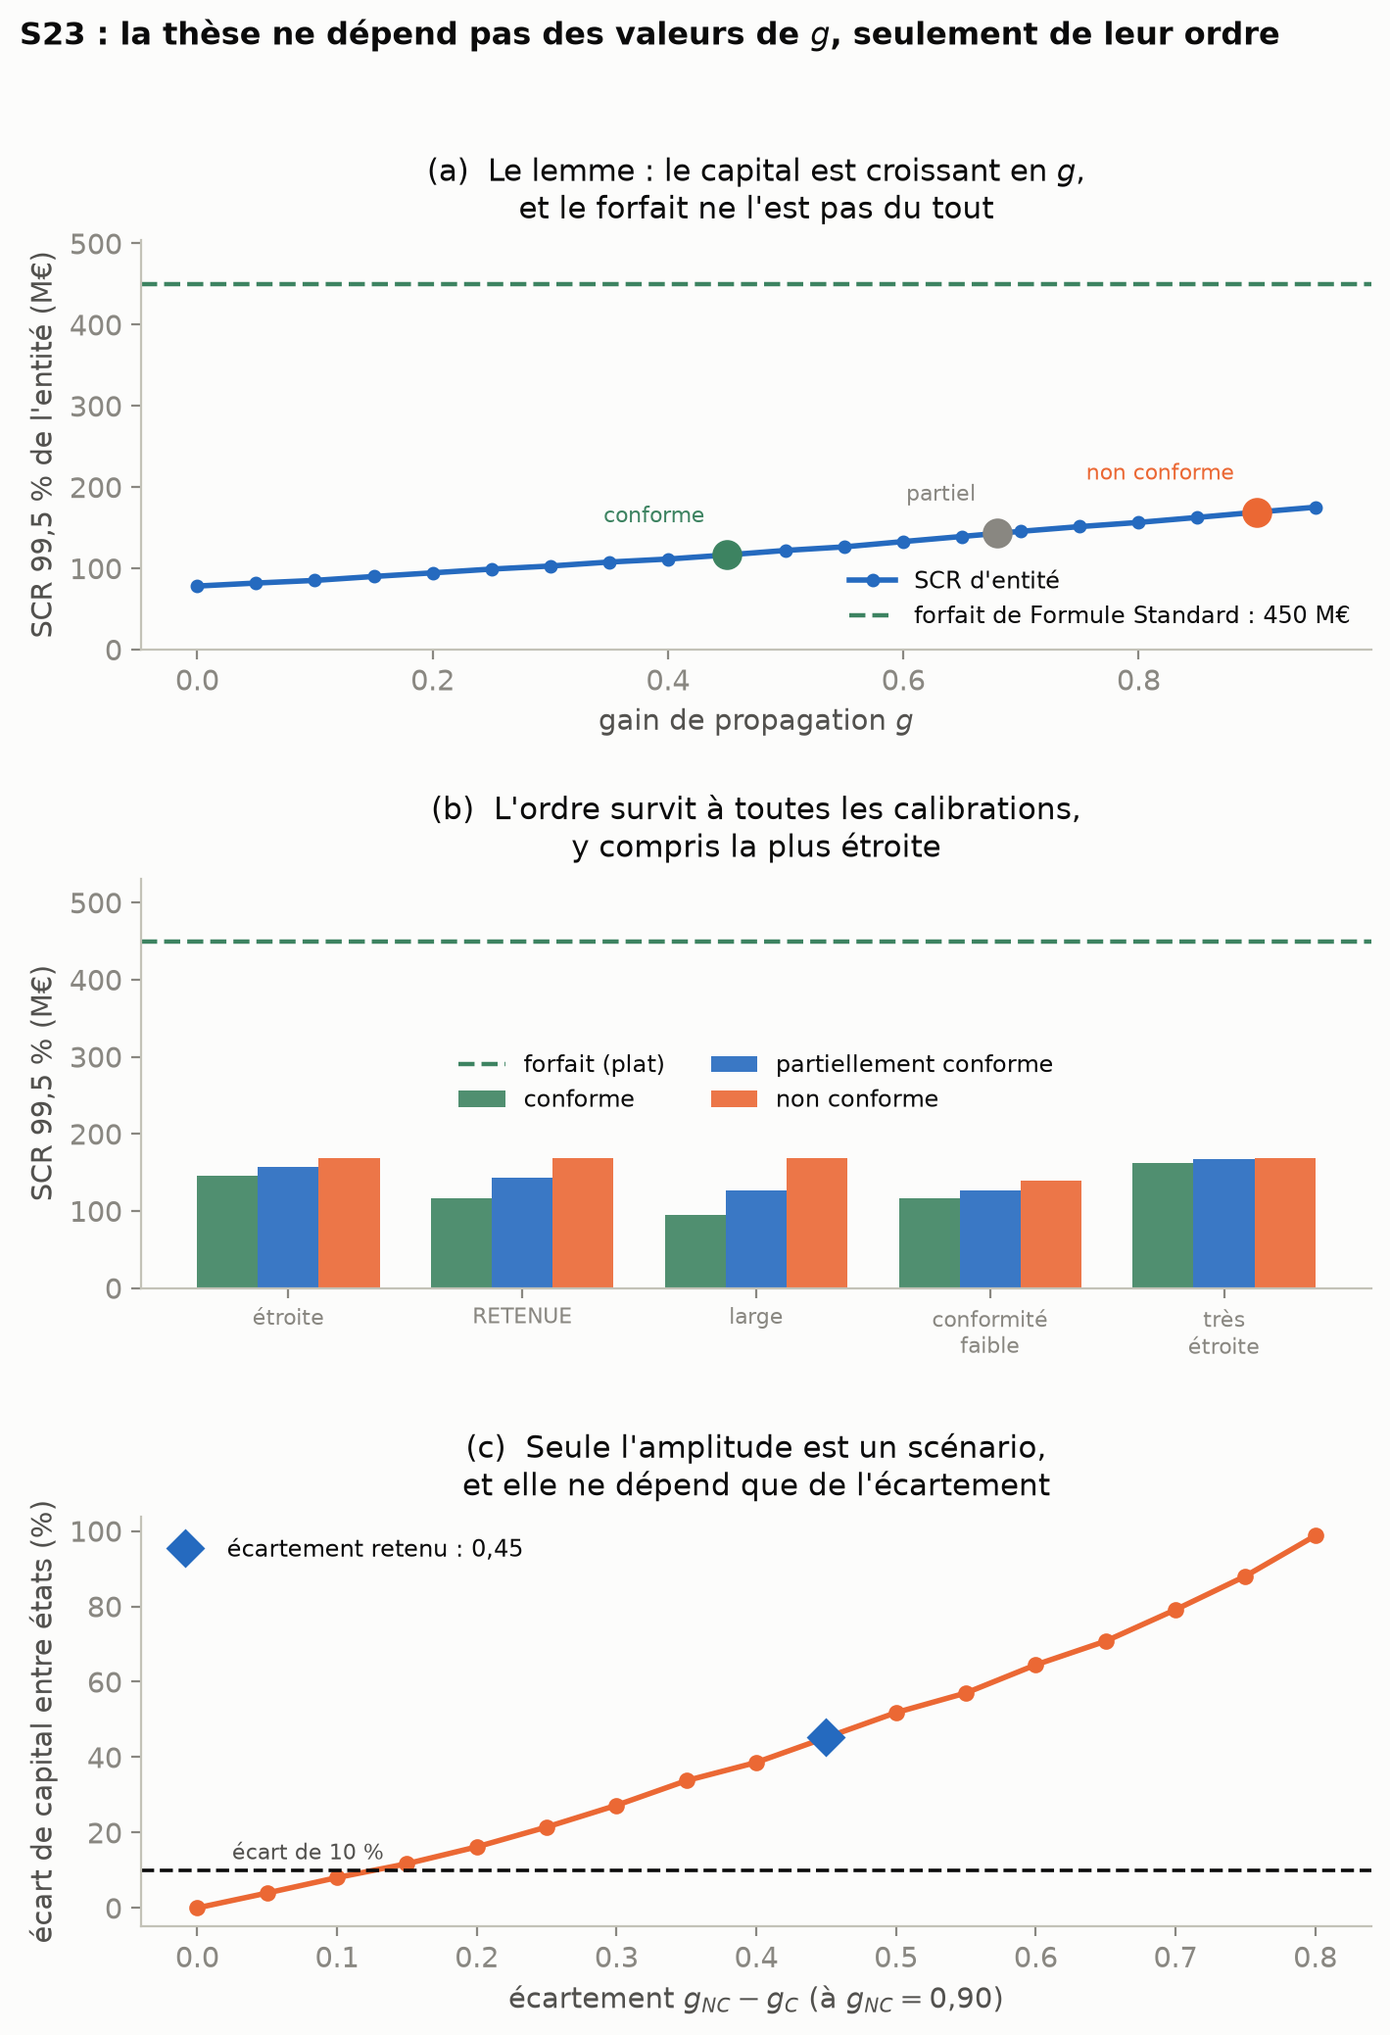
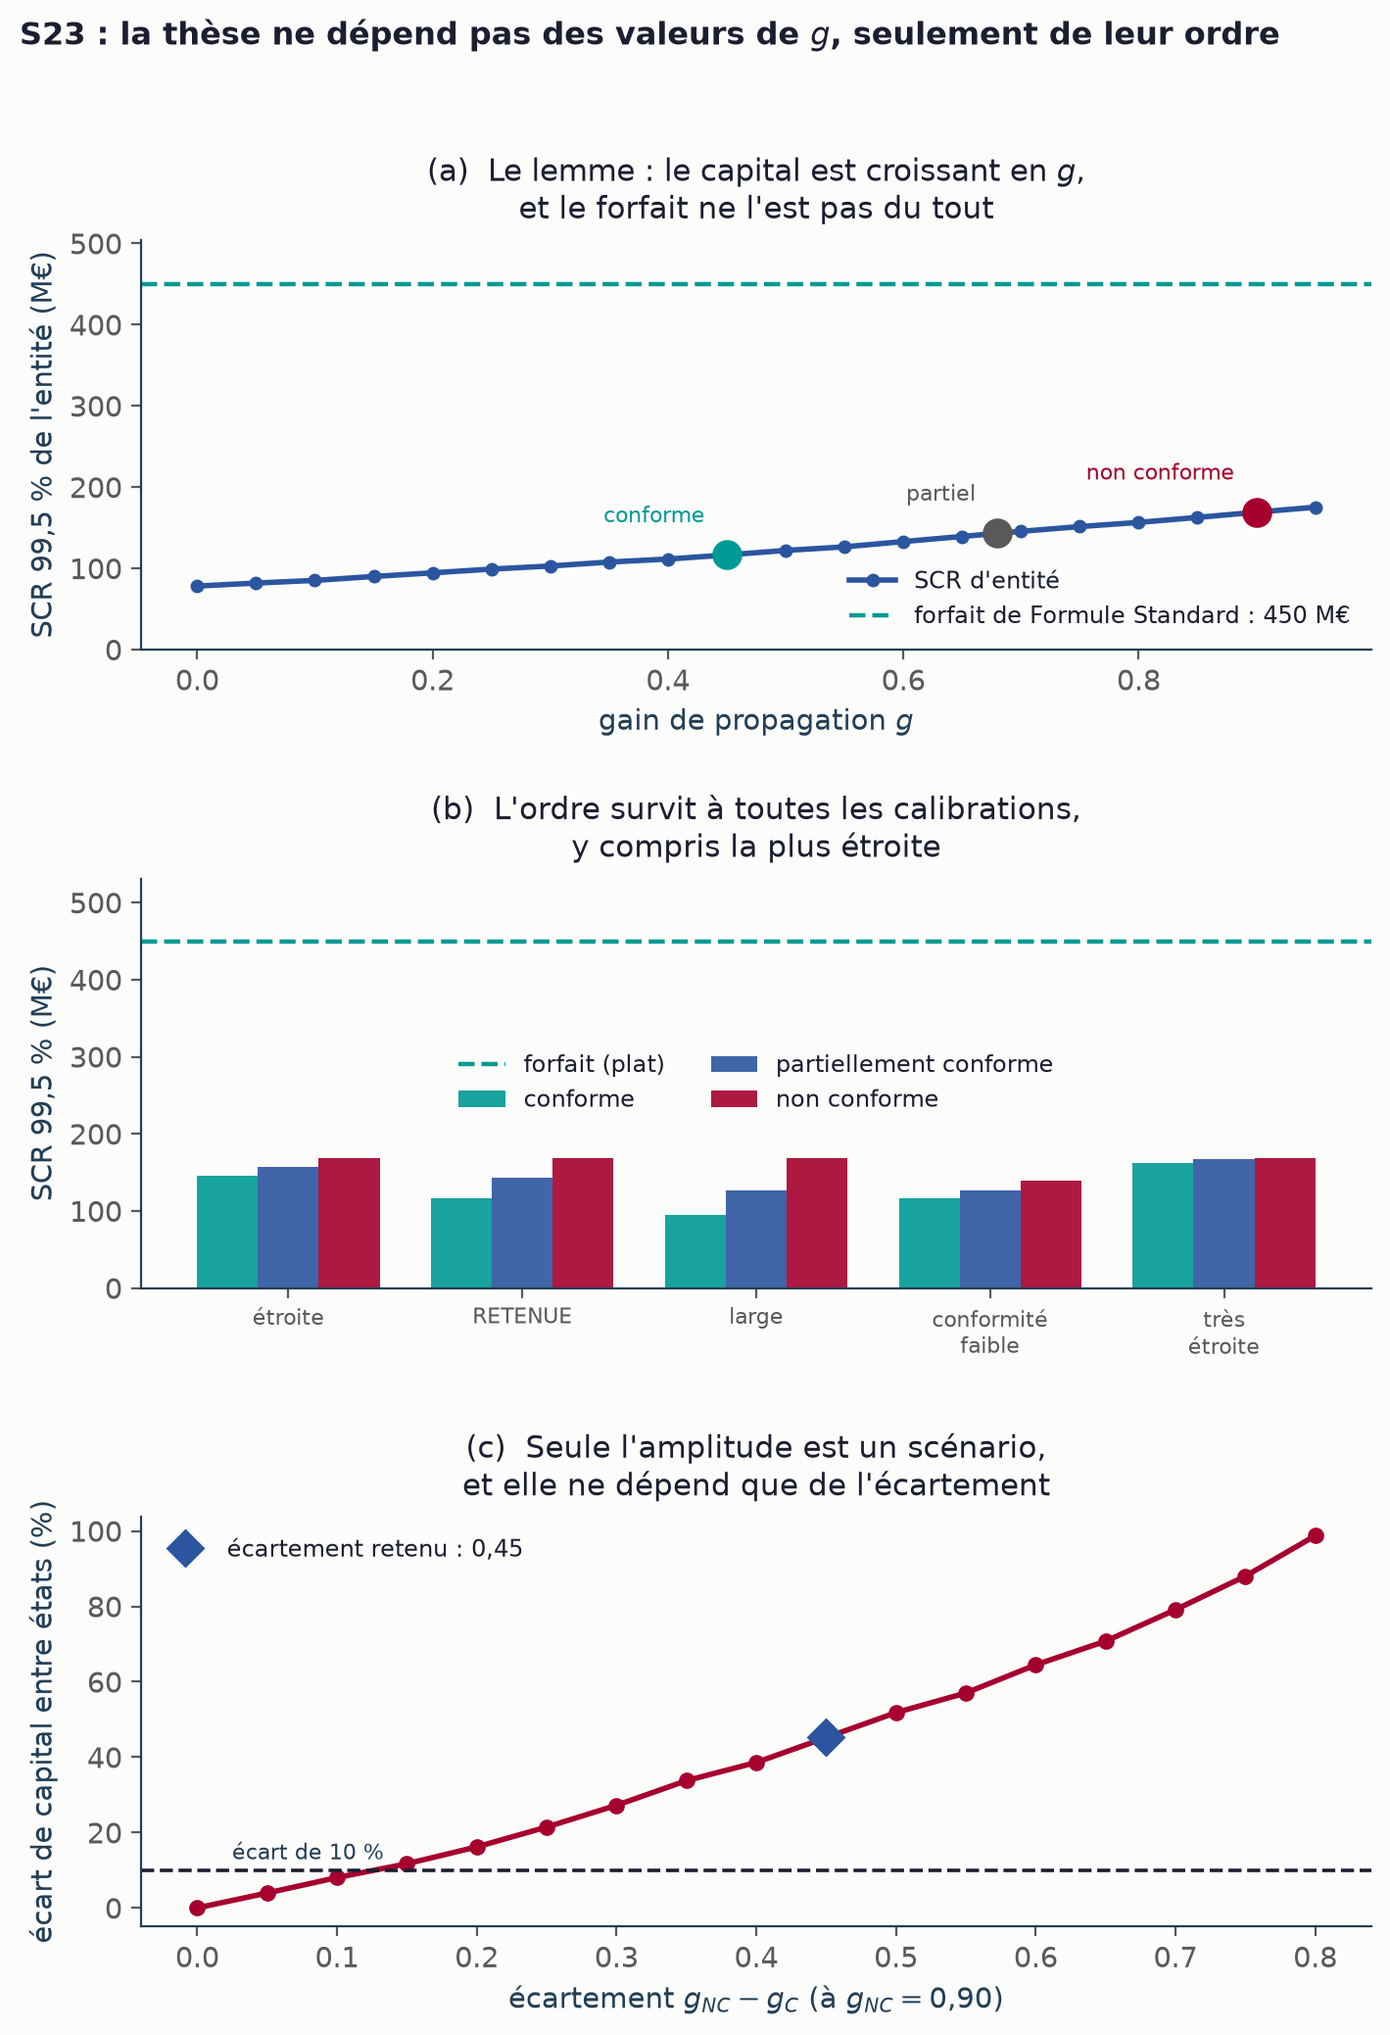
Charte Nexialog : une source unique pour les couleurs, et la palette est MESUREE pas choisie
L'ETAT DE DEPART, RELEVE ET NON SUPPOSE. Quatre-vingt-treize scripts de vasicek_lab
importent matplotlib ET codent leurs couleurs en dur, chacun de son cote : dix-huit
hexadecimaux distincts, dont un fond #FCFCFB repete 351 fois et un accent ORANGE #EB6834
utilise 98 fois. Aucun n'appartient a la charte Nexialog. C'est la dette : changer la
charte demandait de reprendre quatre-vingt-treize fichiers.

CE QUI EST LIVRE : style_nexialog.py, source unique. Les scripts importent des ROLES
(ENCRE, FOND, CATEGORIEL, ORDINAL_5, SEQUENTIEL_6, DIVERGENT, ETAT), jamais des
hexadecimaux. Le module rejoue ses propres controles quand on l'execute.

ET LA PALETTE EST CALCULEE, PAS JUGEE A L'OEIL. Six controles portes en Python a
l'identique de la reference (bande de clarte OKLCH, plancher de chroma, separation sous
protanopie et deuteranopie simulees par Machado-Oliveira-Fernandes 2009 a severite 1,0,
plancher de vision normale, contraste sur le fond). Quatre resultats, tous reproductibles
par le bloc __main__ du module :

  1. LA CHARTE PRISE AU PIED DE LA LETTRE NE DONNE QUE TROIS SLOTS. Sur ses dix couleurs,
     quatre sont hors bande de clarte (bleus fonces, L de 0,24 a 0,35) et six sous le
     plancher de chroma, donc elles se lisent GRIS et cessent de porter une identite.
  2. D'OU DES PALIERS DERIVES DE SES TEINTES, a chroma RETENU pour ne pas rendre
     electrique une identite sobre : les bleus Nexialog sont volontairement a C = 0,12.
[…]

diff --git a/exploratory/vasicek_lab/style_nexialog.py b/exploratory/vasicek_lab/style_nexialog.py
@@ -1,0 +1,257 @@
+#!/usr/bin/env python3
+# -*- coding: utf-8 -*-
+"""Palette et style de figures, charte Nexialog Consulting.
+
+POURQUOI CE MODULE EXISTE, ET CE QU'IL REMPLACE.
+Quatre-vingt-treize scripts de vasicek_lab importent matplotlib et codent leurs couleurs
+EN DUR, chacun de son cote : le releve du 17 aout 2026 compte dix-huit hexadecimaux
+distincts, dont un fond #FCFCFB repete 351 fois et un accent orange #EB6834 utilise 98
+fois. Aucun n'appartient a la charte Nexialog. Changer la charte demandait donc de reprendre
+quatre-vingt-treize fichiers, ce qui est la definition d'une dette d'architecture.
+Ce module est la source unique. Les scripts importent des ROLES, jamais des hexadecimaux.
+
+CE QUI A ETE MESURE PLUTOT QUE JUGE A L'OEIL, et c'est le point principal.
+Une palette categorielle n'est pas affaire de gout : elle se valide. Les six controles
+(bande de clarte OKLCH, plancher de chroma, separation sous protanopie et deuteranopie
+simulees par Machado-Oliveira-Fernandes 2009 a severite 1,0, plancher de vision normale,
+contraste sur le fond) ont ete calcules sur les dix couleurs de la charte, puis sur des
+paliers derives de ses teintes. Resultats, tous reproductibles par le bloc __main__ :
+
+  1. LA CHARTE, PRISE AU PIED DE LA LETTRE, NE DONNE QUE TROIS SLOTS UTILISABLES.
+     Sur ses dix couleurs, quatre sont hors de la bande de clarte (les bleus fonces,
+     L de 0,24 a 0,35), et six sont sous le plancher de chroma, donc elles se lisent
+     comme du gris et cessent de porter une identite. Restent #B10031, #4BC4BD et
+     #49A8CB, dont les deux derniers sont sous 3:1 de contraste sur fond clair.
+  2. D'OU DES PALIERS DERIVES DE SES TEINTES, a chroma RETENU. On tient la teinte de la
+     charte et l'on deplace la clarte : c'est la procedure de rapprochement prescrite.
+     Le chroma demande reste proche de celui de la charte (les bleus Nexialog sont
+     volontairement sourds, C de 0,12) pour ne pas rendre electrique une identite sobre.
+  3. LE CATEGORIEL TIENT A TROIS SLOTS, PAS QUATRE. En toutes paires, l'ordre retenu
+     passe a dE 17,2 sous deuteranopie et 21,1 en vision normale. Un quatrieme slot pris
+     dans la charte echoue le plancher de VISION NORMALE a 14,1 contre 15 exiges, et ce
+     plancher ne se rachete pas par un encodage secondaire. Une quatrieme serie se replie
+     donc en « autres », se facette, ou tire son identite de la position et d'une etiquette
+     directe. Elle ne prend PAS une teinte inventee.
+  4. LES CINQ PILIERS NE SONT PAS UN CAS CATEGORIEL. Ils se presentent presque toujours
+     ORDONNES par contribution (P1 > P4 > P2 > P3 > P5), et une serie ordonnee prend une
+     rampe a une seule teinte, pour que le lecteur voie l'ordre dans la couleur. La rampe
+     ordinale ci-dessous passe ses quatre controles propres.
+
+CE QUI N'EST PAS TOUCHE, ET IL NE FAUT PAS Y TOUCHER.
+La declaration de police reste ["DejaVu Sans", "Segoe UI", "sans-serif"], dans cet ordre.
+DejaVu Sans est fournie par matplotlib lui-meme, donc identique sur les deux postes du
+projet ; c'est ce qui rend une figure rejouee identique A L'OCTET d'une machine a l'autre.
+La charte demande Segoe UI pour le texte, et elle reste en second : sur un poste Windows
+elle serait choisie, ce qui casserait la parite avec le Mac. La charte porte sur les
+documents, pas sur la reproductibilite d'une figure scientifique versionnee, et c'est le
+seul point ou ce module s'en ecarte sciemment.
+"""
+
+# =====================================================================================
+# 1. LA CHARTE, TELLE QUELLE. Valeurs relevees dans le PDF de charte graphique.
+#    Les trois nombres en regard sont mesures : clarte, chroma et teinte OKLCH.
+# =====================================================================================
+CHARTE = {
+    # primaires
+    "rouge":        "#B10031",   # L 0,482  C 0,193  H  18   le seul accent de marque
+    "bleu_nuit":    "#002060",   # L 0,272  C 0,120  H 261   hors bande de clarte
+    "bleu_ardoise": "#223E55",   # L 0,353  C 0,053  H 245   hors bande, sous chroma
+    "presque_noir": "#1B1E30",   # L 0,241  C 0,035  H 276   hors bande, sous chroma
+    # secondaires
+    "blanc_casse":  "#F2F2F2",   # L 0,961  C 0,000         neutre, fonds et grilles
+    "bleu_acier":   "#435B6E",   # L 0,459  C 0,043         sous chroma, lit gris
+    "gris":         "#595959",   # L 0,464  C 0,000         neutre pur, milieu divergent
+    # accentuation
+    "turquoise":    "#4BC4BD",   # L 0,751  C 0,107  H 190   contraste 2,06:1 sur clair
+    "creme":        "#EEE3D3",   # L 0,920  C 0,025         neutre chaud
+    "bleu_clair":   "#49A8CB",   # L 0,689  C 0,102  H 226   contraste 2,64:1 sur clair
+}
+
+# Les quatre familles de teinte exploitables, avec le chroma retenu pour chacune.
+# Le rouge garde son chroma de marque, les bleus restent sourds comme dans la charte.
+TEINTES = {
+    "rouge":     (18.0,  0.190),
+    "turquoise": (190.0, 0.115),
+    "bleu":      (226.0, 0.115),
+    "nuit":      (261.0, 0.130),
+}
+
+# =====================================================================================
+# 2. LES ROLES. C'est ce que les scripts importent.
+# =====================================================================================
+
+# Encre et surfaces. La charte n'impose pas de fond de graphique : on garde un blanc
+# casse tres clair pour l'impression et l'on reserve #F2F2F2 aux remplissages.
+FOND        = "#FCFCFB"          # surface du graphique, inchangee (351 occurrences)
+FOND_PANNEAU = CHARTE["blanc_casse"]
+ENCRE       = CHARTE["presque_noir"]     # texte principal
+ENCRE_2     = CHARTE["bleu_ardoise"]     # texte secondaire
+ENCRE_3     = CHARTE["gris"]             # texte discret, unites
+GRILLE      = "#DCDCDC"                  # grille recessive, jamais une serie
+
+# CATEGORIEL : trois slots, ordre fixe, jamais recycle. Valide en TOUTES PAIRES,
+# donc utilisable aussi bien en nuage et en petits multiples qu'en barres.
+CATEGORIEL = ["#a6002e", "#009a94", "#2b559f"]
+CATEGORIEL_NOMS = ["rouge Nexialog", "turquoise", "bleu nuit"]
+
+# ORDINAL : une seule teinte, cinq paliers, pour une serie ORDONNEE (les cinq piliers).
+ORDINAL_5 = ["#204993", "#3661ac", "#4c79c7", "#6491e1", "#7baafd"]
+
+# SEQUENTIEL : une seule teinte, six paliers, du fonce au clair, pour une magnitude.
+SEQUENTIEL_6 = ["#09327a", "#204993", "#3661ac", "#4c79c7", "#6491e1", "#7baafd"]
+
+# DIVERGENT : deux poles de la charte et un gris NEUTRE au milieu. Jamais une teinte
+# au point median, jamais un arc-en-ciel.
+DIVERGENT = ["#a6002e", "#d3384e", "#e8a0aa", CHARTE["gris"],
+             "#8fa8d8", "#4c79c7", "#204993"]
+
+# ETAT : echelle reservee, jamais recyclee en « serie 4 », toujours avec une etiquette.
+# Le vert n'est pas dans la charte : on utilise le turquoise d'accentuation, qui en est
+# la couleur froide positive, et le rouge de marque pour le critique.
+ETAT = {"bon": "#009a94", "vigilance": "#d3384e", "critique": "#a6002e"}
+
+
+def appliquer(taille=10):
+    """Pose les rcParams de la charte. La police n'est PAS touchee, voir l'en-tete."""
+    import matplotlib as mpl
+    mpl.rcParams.update({
+        "figure.facecolor": FOND,
+        "axes.facecolor": FOND,
+        "savefig.facecolor": FOND,
+        "axes.edgecolor": ENCRE_2,
+        "axes.labelcolor": ENCRE,
+        "text.color": ENCRE,
+        "xtick.color": ENCRE_3,
+        "ytick.color": ENCRE_3,
+        "grid.color": GRILLE,
+        "grid.linewidth": 0.6,
+        # axes.grid N'EST PAS POSE ICI, ET C'EST DELIBERE. Les scripts existants
+        # choisissent chacun d'afficher ou non la grille ; l'imposer changerait
+        # silencieusement l'apparence de quatre-vingt-treize figures pour une raison
+        # etrangere a la charte. Chaque script garde son choix.
+        "axes.spines.top": False,
+        "axes.spines.right": False,
+        "axes.linewidth": 0.8,
+        "axes.prop_cycle": mpl.cycler(color=CATEGORIEL),
+        "lines.linewidth": 2.0,          # traits fins, specification de marque
+        "lines.markersize": 5.0,
+        "font.size": taille,
+        # LA FAMILLE DE POLICE EST DELIBEREMENT ABSENTE DE CE DICTIONNAIRE.
+        # Chaque script garde ["DejaVu Sans", "Segoe UI", "sans-serif"] : c'est ce qui
+        # rend une figure rejouee identique a l'octet entre le PC et le Mac.
+    })
+
+
+def rampe(n, palette=None):
+    """n couleurs prises dans l'ordre fixe, jamais recyclees.
+
+    Au-dela de la longueur de la palette, on LEVE une erreur au lieu de boucler : une
+    neuvieme serie ne prend pas une teinte engendree, elle se replie en « autres », se
+    facette, ou tire son identite de la position. Boucler serait donner deux series la
+    meme couleur en silence.
+    """
+    palette = palette or CATEGORIEL
+    if n > len(palette):
+        raise ValueError(
+            f"{n} series demandees pour {len(palette)} slots valides. La charte Nexialog "
+            f"ne porte pas plus de {len(palette)} teintes categorielles distinctes au "
+            f"standard (plancher de vision normale). Replier en « autres », facetter, ou "
+            f"passer a une rampe ordinale si la serie est ORDONNEE.")
+    return list(palette[:n])
+
+
+# =====================================================================================
+# 3. AUTO-VERIFICATION. Le module rejoue ses propres controles quand on l'execute.
+#    C'est la meme discipline que le reste du projet : un chiffre qui n'est pas
+#    recalculable n'est verifiable par personne.
+# =====================================================================================
+if __name__ == "__main__":
+    import math
+
+    def _lin(h):
+        h = h.lstrip("#")
+        f = lambda c: c / 12.92 if c <= 0.04045 else ((c + 0.055) / 1.055) ** 2.4
+        return [f(int(h[i:i + 2], 16) / 255) for i in (0, 2, 4)]
+
+    def _oklab(rgb):
+        r, g, b = rgb
+        l = max(0.0, 0.4122214708 * r + 0.5363325363 * g + 0.0514459929 * b) ** (1 / 3)
+        m = max(0.0, 0.2119034982 * r + 0.6806995451 * g + 0.1073969566 * b) ** (1 / 3)
+        s = max(0.0, 0.0883024619 * r + 0.2817188376 * g + 0.6299787005 * b) ** (1 / 3)
+        return (0.2104542553 * l + 0.7936177850 * m - 0.0040720468 * s,
+                1.9779984951 * l - 2.4285922050 * m + 0.4505937099 * s,
+                0.0259040371 * l + 0.7827717662 * m - 0.8086757660 * s)
+
+    MACH = {"protan": ((0.152286, 1.052583, -0.204868), (0.114503, 0.786281, 0.099216),
+                       (-0.003882, -0.048116, 1.051998)),
+            "deutan": ((0.367322, 0.860646, -0.227968), (0.280085, 0.672501, 0.047413),
+                       (-0.011820, 0.042940, 0.968881))}
+
+    def _de(a, b, kind=None):
+        def conv(h):
+            rgb = _lin(h)
+            if kind:
+                M = MACH[kind]
+                rgb = [min(1.0, max(0.0, sum(M[i][j] * rgb[j] for j in range(3))))
+                       for i in range(3)]
+            return _oklab(rgb)
+        return 100 * math.dist(conv(a), conv(b))
+
+    def _lum(h):
+        r, g, b = _lin(h)
+        return 0.2126 * r + 0.7152 * g + 0.0722 * b
+
+    def _ct(a, b):
+        hi, lo = sorted((_lum(a), _lum(b)), reverse=True)
+        return (hi + 0.05) / (lo + 0.05)
+
+    def _lch(h):
+        L, a, b = _oklab(_lin(h))
+        return L, math.hypot(a, b)
+
+    print("=" * 78)
+    print("CATEGORIEL, trois slots, controle EN TOUTES PAIRES")
+    print("=" * 78)
+    P = CATEGORIEL
+    pl = [(i, j) for i in range(len(P)) for j in range(i + 1, len(P))]
+    hb = [(c, round(_lch(c)[0], 3)) for c in P if not 0.43 <= _lch(c)[0] <= 0.77]
+    lc = [(c, round(_lch(c)[1], 3)) for c in P if _lch(c)[1] < 0.10]
+    cvd = min(min(_de(P[i], P[j], k) for i, j in pl) for k in ("protan", "deutan"))
+    nor = min(_de(P[i], P[j]) for i, j in pl)
+    ctr = [(c, round(_ct(c, FOND), 2)) for c in P if _ct(c, FOND) < 3.0]
+    for nom, cond, det in [
+            ("bande de clarte", not hb, hb or f"les {len(P)} dans 0,43-0,77"),
+            ("plancher de chroma", not lc, lc or f"les {len(P)} >= 0,10"),
+            ("separation CVD", cvd >= 8.0, f"pire paire dE {cvd:.1f} (cible 8)"),
+            ("plancher vision normale", nor >= 15.0, f"pire paire dE {nor:.1f} (plancher 15)"),
+            ("contraste sur fond", not ctr, ctr or f"les {len(P)} >= 3,0:1")]:
+        print(f"  [{'PASS' if cond else 'FAIL'}] {nom:<24}{det}")
+
+    print()
+    print("=" * 78)
+    print("ORDINAL, cinq paliers, controles propres a une rampe")
+    print("=" * 78)
+    R = ORDINAL_5
+    Ls = [_lch(c)[0] for c in R]
+    mono = Ls == sorted(Ls) or Ls == sorted(Ls, reverse=True)
+    gaps = [abs(Ls[i + 1] - Ls[i]) for i in range(len(Ls) - 1)]
+    clair = max(R, key=lambda c: _lch(c)[0])
+    for nom, cond, det in [
+            ("clarte monotone", mono, "les paliers se lisent dans l'ordre"),
+            ("ecart adjacent", min(gaps) >= 0.06, f"le plus petit vaut {min(gaps):.3f} (>= 0,06)"),
+            ("bout clair sur fond", _ct(clair, FOND) >= 2.0,
+             f"{clair} a {_ct(clair, FOND):.2f}:1 (plancher 2,0)")]:
+        print(f"  [{'PASS' if cond else 'FAIL'}] {nom:<24}{det}")
+
+    print()
+    print("=" * 78)
+    print("CE QUE LA CHARTE NE PERMET PAS, mesure et non suppose")
+    print("=" * 78)
+    q = CATEGORIEL + ["#0087ac"]
+    ql = [(i, i + 1) for i in range(len(q) - 1)]
+    qn = min(_de(q[i], q[j]) for i, j in ql)
+    print(f"  un quatrieme slot pris dans la charte : pire paire adjacente dE {qn:.1f}")
+    print(f"  plancher exige 15,0 -> {'PASS' if qn >= 15 else 'ECHEC'}. Ce plancher ne se")
+    print("  rachete PAS par un encodage secondaire : une quatrieme serie se replie,")
+    print("  se facette, ou tire son identite de la position et d'une etiquette directe.")
+    print("\nEXIT 0")

diff --git a/exploratory/vasicek_lab/5_etats/66_invariance_ordre_conformite.py b/exploratory/vasicek_lab/5_etats/66_invariance_ordre_conformite.py
@@ -255,16 +255,21 @@ print("   avant l'invariance d'ordre, qui est le resultat solide.")
 # =====================================================================================
 titre("Figure")
 # =====================================================================================
+# CHARTE NEXIALOG, 17 AOUT 2026. Les couleurs ne sont plus codees en dur ici : elles
+# viennent de style_nexialog, source unique du projet. Trois series -> les TROIS slots
+# categoriels valides du module, ni plus (un quatrieme echoue le plancher de vision
+# normale) ni recycles. La famille de police reste celle du script, voir l'en-tete du
+# module : elle garantit la parite a l'octet entre le PC et le Mac.
+import style_nexialog as nx                                       # noqa: E402
+
+nx.appliquer(taille=10.5)
 mpl.rcParams.update({
-    "font.family": ["DejaVu Sans", "Segoe UI", "sans-serif"], "font.size": 10.5,
-    "figure.facecolor": "#fcfcfb", "axes.facecolor": "#fcfcfb",
-    "savefig.facecolor": "#fcfcfb", "axes.edgecolor": "#c3c2b7",
-    "axes.linewidth": 0.8, "text.color": "#0b0b0b", "axes.labelcolor": "#52514e",
-    "xtick.color": "#898781", "ytick.color": "#898781", "axes.grid": False,
+    "font.family": ["DejaVu Sans", "Segoe UI", "sans-serif"],
+    "axes.grid": False,                    # choix propre a ce script, conserve
 })
-INK, INK2, MUTED = "#0b0b0b", "#52514e", "#898781"
-ACCENT, BLUE, GREEN = "#eb6834", "#256abf", "#3d8361"
-LEG = dict(frameon=True, facecolor="#fcfcfb", edgecolor="none", framealpha=0.88, fontsize=8.5)
+INK, INK2, MUTED = nx.ENCRE, nx.ENCRE_2, nx.ENCRE_3
+ACCENT, BLUE, GREEN = nx.CATEGORIEL[0], nx.CATEGORIEL[2], nx.CATEGORIEL[1]
+LEG = dict(frameon=True, facecolor=nx.FOND, edgecolor="none", framealpha=0.88, fontsize=8.5)
 
 fig, (ax1, ax2, ax3) = plt.subplots(3, 1, figsize=(7.2, 10.4))
 
